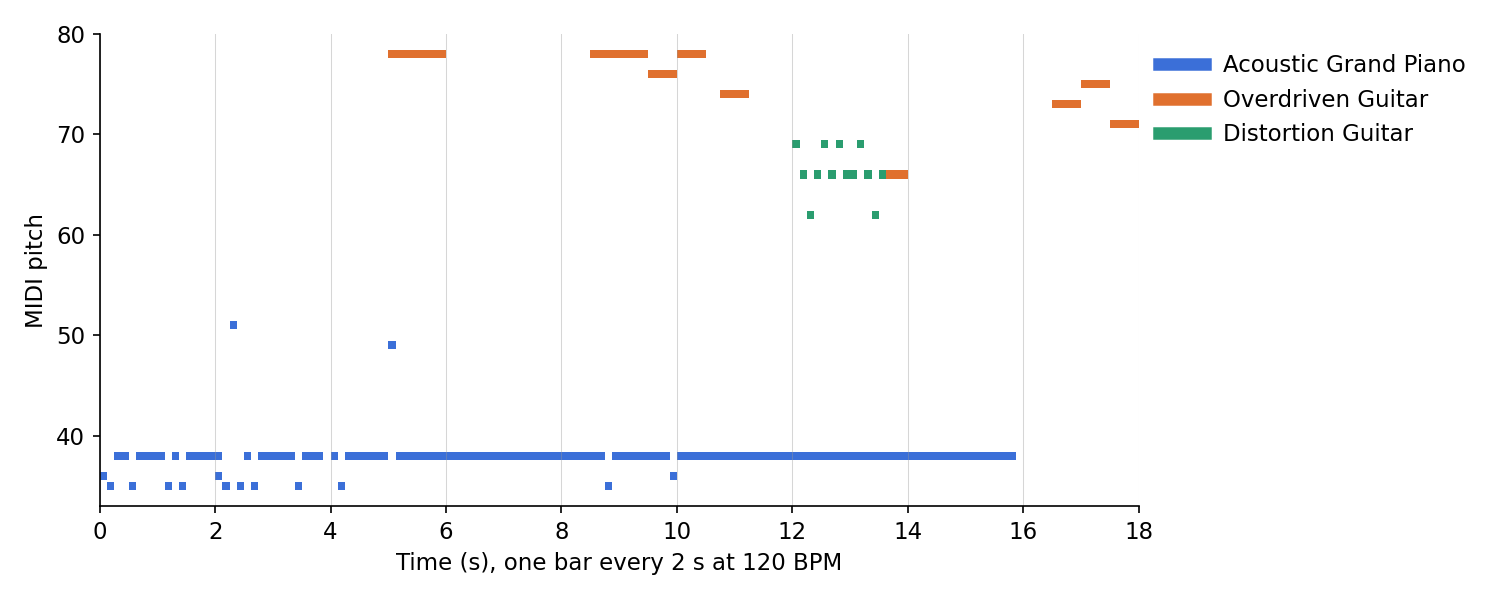
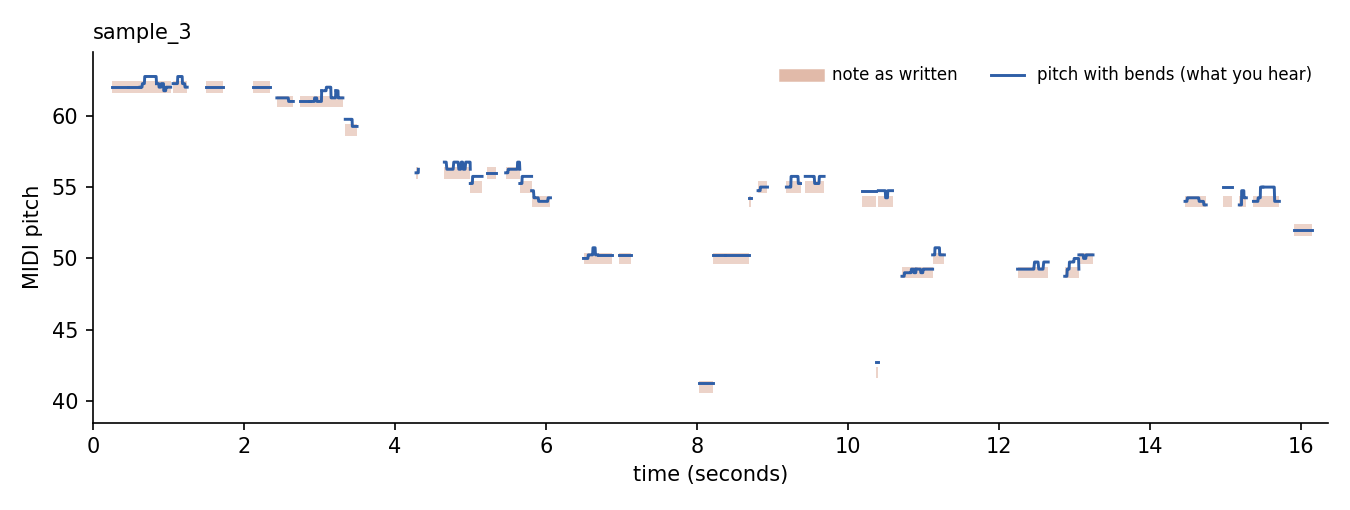
Replace the Lakh example run with Indian classical music from TRF
Converts 41 TRF recordings of ragas Kedar and Bihag (4.0 hours) to MIDI with
Basic Pitch, keeping pitch bends, and trains the notebook's pipeline on them
with KEEP_PITCH_BENDS = True. Validation uses held-out recordings, and samples
come from the best checkpoint. Adds convert_audio_to_midi.py.

diff --git a/convert_audio_to_midi.py b/convert_audio_to_midi.py
@@ -1,0 +1,40 @@
+"""Convert recordings to MIDI with Spotify's Basic Pitch, keeping pitch bends.
+
+This is how the example run's MIDI was made from TRF recordings. Each subfolder of
+AUDIO_DIR (one per raga) becomes a subfolder of MIDI_DIR.
+
+    pip install basic-pitch
+    python convert_audio_to_midi.py AUDIO_DIR MIDI_DIR
+"""
+import sys
+from pathlib import Path
+
+from basic_pitch import ICASSP_2022_MODEL_PATH
+from basic_pitch.inference import Model, predict
+
+audio_dir, midi_dir = Path(sys.argv[1]), Path(sys.argv[2])
+
+
+def load_model():
+    """Basic Pitch ships the same model in several formats; use the first one this machine can run."""
+    folder = Path(ICASSP_2022_MODEL_PATH).parent
+    for candidate in (ICASSP_2022_MODEL_PATH, folder / "nmp.mlpackage", folder / "nmp.tflite", folder / "nmp.onnx"):
+        try:
+            return Model(candidate)
+        except Exception:
+            continue
+    raise RuntimeError("no Basic Pitch model format could be loaded; install tensorflow, coremltools or onnxruntime")
+
+
+model = load_model()
+
+paths = sorted(p for p in audio_dir.rglob("*") if p.suffix.lower() in (".mp3", ".wav", ".m4a", ".flac"))
+for k, path in enumerate(paths, 1):
+    out = midi_dir / path.relative_to(audio_dir).with_suffix(".mid")
+    if out.exists():
+        continue
+    out.parent.mkdir(parents=True, exist_ok=True)
+    _, midi, _ = predict(str(path), model)  # pitch bends are written by default
+    midi.write(str(out))
+    bends = sum(len(i.pitch_bends) for i in midi.instruments)
+    print(f"[{k}/{len(paths)}] {out.relative_to(midi_dir)}: {midi.get_end_time() / 60:.1f} min, {bends} pitch bends")

diff --git a/README.md b/README.md
@@ -4,7 +4,7 @@
 
 A GPT-2 language model trained from scratch to compose multi-track MIDI music. MIDI files are cut into 8-bar pieces and written out as text, and the model learns to continue that text one musical event at a time. While it trains, it composes a new piece at every evaluation and plays it back, so you can hear it go from noise to music.
 
-I built this pipeline during my internship at Intel to generate Indian classical music. No MIDI dataset existed for this music, so we built one: we started from the [Thaat and Raga Forest (TRF) dataset](https://ieee-dataport.org/documents/thaat-and-raga-forest-trf-dataset) of Hindustani recordings, classified the recordings, and converted them into MIDI chunks by hand. That MIDI dataset isn't included here. The example run below uses public MIDI files to show the code working end to end.
+I built this pipeline during my internship at Intel to generate Indian classical music. No MIDI dataset existed for this music, so we built one: we started from the [Thaat and Raga Forest (TRF) dataset](https://ieee-dataport.org/documents/thaat-and-raga-forest-trf-dataset) of Hindustani recordings, classified the recordings, and converted them into MIDI chunks by hand. That MIDI dataset isn't included here. The example run below rebuilds a smaller version of it from two ragas of the same TRF recordings.
 
 ## How it works
 
@@ -25,24 +25,31 @@ I built this pipeline during my internship at Intel to generate Indian classical
 
 ## Example run
 
-To show the code working, I trained the notebook's pipeline on 3,000 songs from the public [Lakh MIDI Dataset](https://colinraffel.com/projects/lmd/) (Clean MIDI subset) on an Apple M4 laptop.
+I rebuilt a small Indian classical dataset from the TRF recordings and trained the notebook's pipeline on it, with pitch bends kept, on an Apple M4 laptop.
+
+1. **Recordings:** all 41 TRF recordings of two ragas, Kedar (Kalyan thaat) and Bihag (Bilaval thaat), 4.0 hours in total.
+2. **Audio to MIDI:** [`convert_audio_to_midi.py`](convert_audio_to_midi.py) runs Spotify's Basic Pitch with pitch bends on, so the gamakas survive as bends.
+3. **Training:** the notebook's own chunking, encoding, tokenizer and model code with `KEEP_PITCH_BENDS = True`.
 
 | | |
 |---|---|
-| Training pieces | 40,983 eight-bar pieces (36,884 for training, 1,000 held out for validation) |
-| Vocabulary | 434 tokens |
-| Model | GPT-2, 6 layers, 8 heads, 512-dim embeddings, 19.4M parameters, randomly initialized |
-| Training | 3,000 steps, batch size 16 (about 1.3 epochs) |
+| Training pieces | 892 eight-bar pieces: 834 from 37 recordings for training, 58 from 4 held-out recordings (two per raga) for validation |
+| Pitch bends | 98% of pieces contain `BEND` tokens |
+| Vocabulary | 254 tokens, 13 of them bend levels |
+| Model | GPT-2, 6 layers, 8 heads, 512-dim embeddings, 19.3M parameters, randomly initialized |
+| Training | 2,000 steps, batch size 16; samples come from the checkpoint with the lowest validation loss (step 750) |
 
 ![Training and validation loss](results/loss_curve.png)
 
-Validation loss fell from 1.93 to 0.99 over 3,000 steps and stayed below the training loss throughout, so the model is generalizing to pieces it hasn't seen rather than memorizing.
+Validation pieces come from whole recordings the model never trained on, so it can't score well by remembering a performance. Validation loss bottomed out at 2.02 at step 750; after that, training loss kept falling while validation loss rose, the model memorizing 37 recordings rather than learning more about the ragas. Four hours of music is small for a model this size, which is why the samples come from step 750.
 
-![Piano roll of a generated piece](results/generated_piano_roll.png)
+![Piano roll of a generated piece, showing pitch bends](results/generated_piano_roll.png)
 
-A piece the model composed from the prompt `PIECE_START TRACK_START`: a bass line with guitar phrases on top, across three instruments. At this stage the output has a steady pulse and plausible instrument parts, but it is repetitive; longer training would be the next step.
+A piece the model composed from the prompt `PIECE_START TRACK_START`. The shaded blocks are the notes as written; the line is the pitch you hear once the bends are applied. The model slides into notes and oscillates around them, the shapes of gamakas, rather than jumping between fixed pitches. Every one of the 8 pieces it composed uses bends. They are bent by half a semitone or more for 0% to 56% of their note time, within the range of the training recordings (4% to 73%), so the bends behave like the music's rather than leaving notes stuck out of tune.
 
-Generated samples are in [`results/samples/`](results/samples). Open them in GarageBand or any MIDI player. `early_step_500.mid` is from early in training, for comparison.
+Generated samples are in [`results/samples/`](results/samples). Open them in GarageBand or any MIDI player. They play on an electric piano, the instrument Basic Pitch assigns, not a sitar or voice. `early_step_500.mid` is from early in training, for comparison.
+
+What this run does not show: the notes don't yet follow a raga's rules. A note-by-note comparison with the training recordings is weak, partly because each recording is in a different key. Learning raga grammar from four hours of music is the open problem; more recordings, transposing every recording to a common tonic, and training with the raga as a label are the next steps.
 
 ## Pitch bends (optional)
 
@@ -56,20 +63,16 @@ Setting `KEEP_PITCH_BENDS = True` keeps them:
 - The decoder turns `BEND` tokens back into pitch bends for playback and the `.mid` output.
 
 ```
-NOTE_ON=57 TIME_DELTA=15 BEND=-1 TIME_DELTA=1 BEND=-2 TIME_DELTA=1 BEND=-1 TIME_DELTA=2 BEND=0 TIME_DELTA=15 NOTE_OFF=57
+NOTE_ON=56 BEND=3 TIME_DELTA=1 BEND=1 TIME_DELTA=3 BEND=3 TIME_DELTA=2 BEND=1 TIME_DELTA=1 BEND=3 TIME_DELTA=1 BEND=1 TIME_DELTA=1 BEND=3 TIME_DELTA=2 NOTE_OFF=56
 ```
 
-That line is from a piece the model generated: it holds an A, dips half a semitone and comes back to pitch.
+That line is from a piece the model generated in the example run: it holds a note and oscillates between a quarter and three quarters of a semitone above it, an andolan-like gamaka.
 
-**Tested on the example data**, not on Indian classical music, since the dataset built at Intel isn't included:
-
-- 1,833 of the 3,000 Lakh MIDI files contain pitch bends; 12,566 of the 40,983 pieces keep at least one `BEND` token, and bends are 0.6% of all tokens.
-- Every piece decodes back with the same number of pitch bends it was encoded with.
-- After 2,000 training steps (validation loss 1.13), 1 of 6 generated pieces used bends ([`pitch_bends_example.mid`](results/samples/pitch_bends_example.mid)). Bends are rare in Western pop, so the model learns them slowly; music where bends are central, like the Hindustani recordings this was built for, would give it far more to learn from.
+In the example run's raga recordings, bends are about 6% of all tokens and appear in 98% of pieces. Every piece decodes back with exactly the pitch bends it was encoded with. A check on 3,000 Western pop and rock MIDI files from the [Lakh MIDI Dataset](https://colinraffel.com/projects/lmd/) found bends in only 31% of pieces and 0.6% of tokens, and a model trained on them rarely used bends at all: these tokens matter far more for Indian classical music.
 
 ## Run it
 
-1. Download MIDI files to train on, for example the [Lakh MIDI Dataset](https://colinraffel.com/projects/lmd/) (the Clean MIDI subset is a good size to start with), and upload the folder to Google Drive.
+1. Get MIDI files to train on and upload the folder to Google Drive. To build Indian classical MIDI like the example run, download TRF recordings (from [Kaggle](https://www.kaggle.com/datasets/suryamajumder/thaat-and-raga-forest-trf-dataset) or IEEE DataPort) and convert them with `python convert_audio_to_midi.py AUDIO_DIR MIDI_DIR`, then set `KEEP_PITCH_BENDS = True`. Any other MIDI collection works too, such as the [Lakh MIDI Dataset](https://colinraffel.com/projects/lmd/).
 2. Open the notebook in Colab with the badge above and choose a GPU runtime.
 3. Set `MIDI_DIR` in the settings cell to that Drive folder, then run all cells.
 
@@ -97,9 +100,10 @@ Everything the notebook produces is saved to `MyDrive/music_gpt2/`:
 
 ## Data credits
 
-- **Thaat and Raga Forest (TRF) dataset**, the base for the Indian classical MIDI dataset built at Intel: S. Majumder and A. Bhattacharya, IEEE DataPort, 2024, [doi:10.21227/0xtb-fn23](https://doi.org/10.21227/0xtb-fn23), CC BY 4.0. Related paper: S. Majumder and A. Bhattacharya, "An automatic thaat and raga identification system using CNN-based models", *Innovations in Systems and Software Engineering*, 2023, [doi:10.1007/s11334-023-00541-2](https://doi.org/10.1007/s11334-023-00541-2).
-- **Lakh MIDI Dataset**, used for the example run: C. Raffel, *Learning-Based Methods for Comparing Sequences, with Applications to Audio-to-MIDI Alignment and Matching*, PhD thesis, Columbia University, 2016. [colinraffel.com/projects/lmd](https://colinraffel.com/projects/lmd/)
+- **Thaat and Raga Forest (TRF) dataset**, the base for the Indian classical MIDI dataset built at Intel and for the example run: S. Majumder and A. Bhattacharya, IEEE DataPort, 2024, [doi:10.21227/0xtb-fn23](https://doi.org/10.21227/0xtb-fn23), CC BY 4.0; also on [Kaggle](https://www.kaggle.com/datasets/suryamajumder/thaat-and-raga-forest-trf-dataset), where the example run's recordings came from. Related paper: S. Majumder and A. Bhattacharya, "An automatic thaat and raga identification system using CNN-based models", *Innovations in Systems and Software Engineering*, 2023, [doi:10.1007/s11334-023-00541-2](https://doi.org/10.1007/s11334-023-00541-2).
+- **Basic Pitch**, used to convert the recordings to MIDI: R. M. Bittner, J. J. Bosch, D. Rubinstein, G. Meseguer-Brocal and S. Ewert, "A Lightweight Instrument-Agnostic Model for Polyphonic Note Transcription and Multipitch Estimation", ICASSP 2022. [github.com/spotify/basic-pitch](https://github.com/spotify/basic-pitch)
+- **Lakh MIDI Dataset**, used for the pitch-bend comparison: C. Raffel, *Learning-Based Methods for Comparing Sequences, with Applications to Audio-to-MIDI Alignment and Matching*, PhD thesis, Columbia University, 2016. [colinraffel.com/projects/lmd](https://colinraffel.com/projects/lmd/)
 
 ## Tech stack
 
-PyTorch, Hugging Face Transformers, Tokenizers and Datasets, miditoolkit, note_seq, FluidSynth, Weights & Biases (optional)
+PyTorch, Hugging Face Transformers, Tokenizers and Datasets, miditoolkit, note_seq, FluidSynth, Basic Pitch, Weights & Biases (optional)
